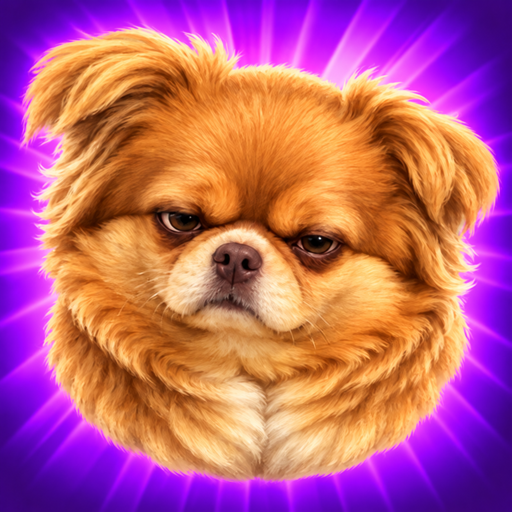
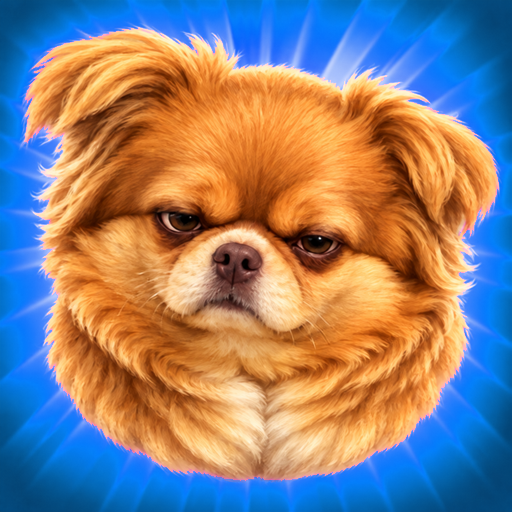
Make Grumpy Leo blue so he no longer looks like pink Guilty Leo

diff --git a/SproutAndSmiles/GameModel.swift b/SproutAndSmiles/GameModel.swift
@@ -35,7 +35,7 @@ enum Veggie: String, CaseIterable, Codable {
         case .carrot: Color(red: 0.95, green: 0.56, blue: 0.22)
         case .onion: Color(red: 0.80, green: 0.57, blue: 0.78)
         case .pepper: Color(red: 0.94, green: 0.75, blue: 0.24)
-        case .eggplant: Color(red: 0.39, green: 0.29, blue: 0.56)
+        case .eggplant: Color(red: 0.24, green: 0.48, blue: 0.86)
         case .pea: Color(red: 0.38, green: 0.67, blue: 0.35)
         }
     }

diff --git a/docs/ART_BIBLE.md b/docs/ART_BIBLE.md
@@ -35,7 +35,7 @@ The current Chapter One art establishes the target rendering style: storybook-re
 - Leo's face should occupy most of the 512 × 512 source image and remain readable around 42–50 points on an iPhone.
 - Power-ups are communicated with separate badges and effects layered by the app.
 
-Current piece files live in `SproutAndSmiles/Artwork/LeoPieces/`: happy (red), side-eye (orange), guilty (magenta), nervous (yellow, peeking over his paws), grumpy (violet), and lick (green). Nervous replaced the earlier excited piece because the two wide-eyed sideways glances were too easy to confuse.
+Current piece files live in `SproutAndSmiles/Artwork/LeoPieces/`: happy (red), side-eye (orange), guilty (magenta), nervous (yellow, peeking over his paws), grumpy (blue), and lick (green). Nervous replaced the earlier excited piece because the two wide-eyed sideways glances were too easy to confuse, and grumpy moved from violet to blue because it looked too much like the magenta guilty piece.
 
 ### Special-state overlay standard
 
